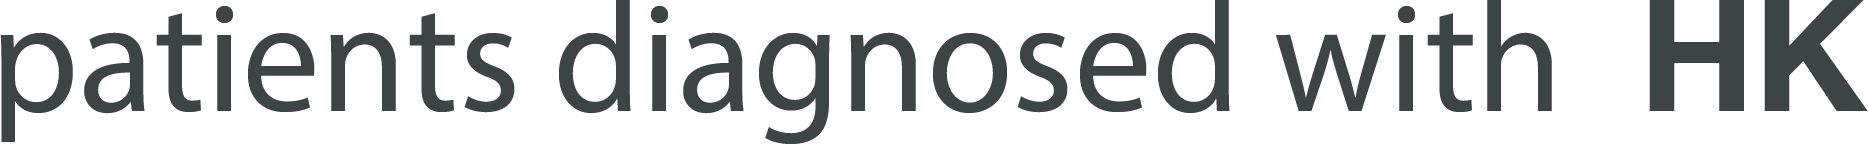
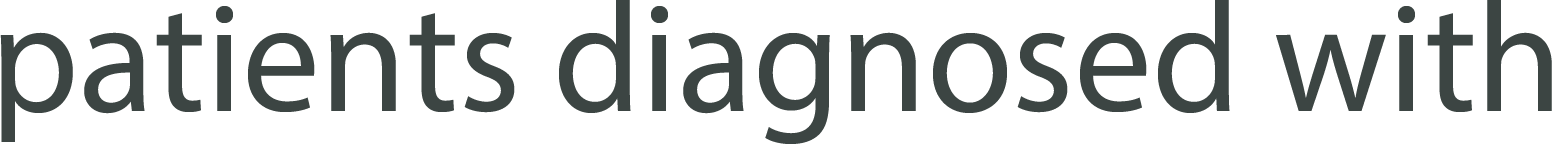
last looks 6

diff --git a/public/idle.js b/public/idle.js
@@ -1,0 +1,330 @@
+/*! Idle Timer - v1.1.1 - 2020-06-25
+* https://github.com/thorst/jquery-idletimer
+* Copyright (c) 2020 Paul Irish; Licensed MIT */
+/*
+	mousewheel (deprecated) -> IE6.0, Chrome, Opera, Safari
+	DOMMouseScroll (deprecated) -> Firefox 1.0
+	wheel (standard) -> Chrome 31, Firefox 17, IE9, Firefox Mobile 17.0
+
+	//No need to use, use DOMMouseScroll
+	MozMousePixelScroll -> Firefox 3.5, Firefox Mobile 1.0
+
+	//Events
+	WheelEvent -> see wheel
+	MouseWheelEvent -> see mousewheel
+	MouseScrollEvent -> Firefox 3.5, Firefox Mobile 1.0
+*/
+(function ($) {
+
+      $.idleTimer = function (firstParam, elem) {
+          var opts;
+          if ( typeof firstParam === "object" ) {
+              opts = firstParam;
+              firstParam = null;
+          } else if (typeof firstParam === "number") {
+              opts = { timeout: firstParam };
+              firstParam = null;
+          }
+  
+          // element to watch
+          elem = elem || document;
+  
+          // defaults that are to be stored as instance props on the elem
+          opts = $.extend({
+              idle: false,                // indicates if the user is idle
+              timeout: 30000,             // the amount of time (ms) before the user is considered idle
+              events: "mousemove keydown wheel DOMMouseScroll mousewheel mousedown touchstart touchmove MSPointerDown MSPointerMove" // define active events
+          }, opts);
+  
+          var jqElem = $(elem),
+              obj = jqElem.data("idleTimerObj") || {},
+  
+              /* (intentionally not documented)
+               * Toggles the idle state and fires an appropriate event.
+               * @return {void}
+               */
+              toggleIdleState = function (e) {
+                  var obj = $.data(elem, "idleTimerObj") || {};
+  
+                  // toggle the state
+                  obj.idle = !obj.idle;
+  
+                  // store toggle state date time
+                  obj.olddate = +new Date();
+  
+                  // create a custom event, with state and name space
+                  var event = $.Event((obj.idle ? "idle" : "active") + ".idleTimer");
+  
+                  // trigger event on object with elem and copy of obj
+                  $(elem).trigger(event, [elem, $.extend({}, obj), e]);
+              },
+              /**
+               * Handle event triggers
+               * @return {void}
+               * @method event
+               * @static
+               */
+              handleEvent = function (e) {
+                  var obj = $.data(elem, "idleTimerObj") || {};
+  
+              // ignore writting to storage unless related to idleTimer
+                  if (e.type === "storage" && e.originalEvent.key !== obj.timerSyncId) {
+                      return;
+                  }
+  
+                  // this is already paused, ignore events for now
+                  if (obj.remaining != null) { return; }
+  
+                  /*
+                  mousemove is kinda buggy, it can be triggered when it should be idle.
+                  Typically is happening between 115 - 150 milliseconds after idle triggered.
+                  @psyafter & @kaellis report "always triggered if using modal (jQuery ui, with overlay)"
+                  @thorst has similar issues on ios7 "after $.scrollTop() on text area"
+                  */
+                  if (e.type === "mousemove") {
+                      // if coord are same, it didn't move
+                      if (e.pageX === obj.pageX && e.pageY === obj.pageY) {
+                          return;
+                      }
+                      // if coord don't exist how could it move
+                      if (typeof e.pageX === "undefined" && typeof e.pageY === "undefined") {
+                          return;
+                      }
+                      // under 200 ms is hard to do, and you would have to stop, as continuous activity will bypass this
+                      var elapsed = (+new Date()) - obj.olddate;
+                      if (elapsed < 200) {
+                          return;
+                      }
+                  }
+  
+                  // clear any existing timeout
+                  clearTimeout(obj.tId);
+  
+                  // if the idle timer is enabled, flip
+                  if (obj.idle) {
+                      toggleIdleState(e);
+                  }
+  
+                  // store when user was last active
+                  obj.lastActive = +new Date();
+  
+                  // update mouse coord
+                  obj.pageX = e.pageX;
+                  obj.pageY = e.pageY;
+  
+                  // sync lastActive
+                  if (e.type !== "storage" && obj.timerSyncId) {
+                    if (typeof(localStorage) !== "undefined") {
+                      localStorage.setItem(obj.timerSyncId, obj.lastActive);
+                    }
+                  }
+  
+                  // set a new timeout
+                  obj.tId = setTimeout(toggleIdleState, obj.timeout);
+              },
+              /**
+               * Restore initial settings and restart timer
+               * @return {void}
+               * @method reset
+               * @static
+               */
+              reset = function () {
+  
+                  var obj = $.data(elem, "idleTimerObj") || {};
+  
+                  // reset settings
+                  obj.idle = obj.idleBackup;
+                  obj.olddate = +new Date();
+                  obj.lastActive = obj.olddate;
+                  obj.remaining = null;
+  
+                  // reset Timers
+                  clearTimeout(obj.tId);
+                  if (!obj.idle) {
+                      obj.tId = setTimeout(toggleIdleState, obj.timeout);
+                  }
+  
+              },
+              /**
+               * Store remaining time, stop timer
+               * You can pause from an idle OR active state
+               * @return {void}
+               * @method pause
+               * @static
+               */
+              pause = function () {
+  
+                  var obj = $.data(elem, "idleTimerObj") || {};
+  
+                  // this is already paused
+                  if ( obj.remaining != null ) { return; }
+  
+                  // define how much is left on the timer
+                  obj.remaining = obj.timeout - ((+new Date()) - obj.olddate);
+  
+                  // clear any existing timeout
+                  clearTimeout(obj.tId);
+              },
+              /**
+               * Start timer with remaining value
+               * @return {void}
+               * @method resume
+               * @static
+               */
+              resume = function () {
+  
+                  var obj = $.data(elem, "idleTimerObj") || {};
+  
+                  // this isn't paused yet
+                  if ( obj.remaining == null ) { return; }
+  
+                  // start timer
+                  if ( !obj.idle ) {
+                      obj.tId = setTimeout(toggleIdleState, obj.remaining);
+                  }
+  
+                  // clear remaining
+                  obj.remaining = null;
+              },
+              /**
+               * Stops the idle timer. This removes appropriate event handlers
+               * and cancels any pending timeouts.
+               * @return {void}
+               * @method destroy
+               * @static
+               */
+              destroy = function () {
+  
+                  var obj = $.data(elem, "idleTimerObj") || {};
+  
+                  //clear any pending timeouts
+                  clearTimeout(obj.tId);
+  
+                  //Remove data
+                  jqElem.removeData("idleTimerObj");
+  
+                  //detach the event handlers
+                  jqElem.off("._idleTimer");
+              },
+              /**
+              * Returns the time until becoming idle
+              * @return {number}
+              * @method remainingtime
+              * @static
+              */
+              remainingtime = function () {
+  
+                  var obj = $.data(elem, "idleTimerObj") || {};
+  
+                  //If idle there is no time remaining
+                  if ( obj.idle ) { return 0; }
+  
+                  //If its paused just return that
+                  if ( obj.remaining != null ) { return obj.remaining; }
+  
+                  //Determine remaining, if negative idle didn't finish flipping, just return 0
+                  var remaining = obj.timeout - ((+new Date()) - obj.lastActive);
+                  if (remaining < 0) { remaining = 0; }
+  
+                  //If this is paused return that number, else return current remaining
+                  return remaining;
+              };
+  
+  
+          // determine which function to call
+          if (firstParam === null && typeof obj.idle !== "undefined") {
+              // they think they want to init, but it already is, just reset
+              reset();
+              return jqElem;
+          } else if (firstParam === null) {
+              // they want to init
+          } else if (firstParam !== null && typeof obj.idle === "undefined") {
+              // they want to do something, but it isnt init
+              // not sure the best way to handle this
+              return false;
+          } else if (firstParam === "destroy") {
+              destroy();
+              return jqElem;
+          } else if (firstParam === "pause") {
+              pause();
+              return jqElem;
+          } else if (firstParam === "resume") {
+              resume();
+              return jqElem;
+          } else if (firstParam === "reset") {
+              reset();
+              return jqElem;
+          } else if (firstParam === "getRemainingTime") {
+              return remainingtime();
+          } else if (firstParam === "getElapsedTime") {
+              return (+new Date()) - obj.olddate;
+          } else if (firstParam === "getLastActiveTime") {
+              return obj.lastActive;
+          } else if (firstParam === "isIdle") {
+              return obj.idle;
+          }
+  
+        // Test via a getter in the options object to see if the passive property is accessed
+        // This isnt working in jquery, though is planned for 4.0
+        // https://github.com/jquery/jquery/issues/2871
+          /*var supportsPassive = false;
+          try {
+              var Popts = Object.defineProperty({}, "passive", {
+                  get: function() {
+                      supportsPassive = true;
+                  }
+              });
+              window.addEventListener("test", null, Popts);
+          } catch (e) {}
+        */
+  
+          /* (intentionally not documented)
+           * Handles a user event indicating that the user isn't idle. namespaced with internal idleTimer
+           * @param {Event} event A DOM2-normalized event object.
+           * @return {void}
+           */
+          jqElem.on((opts.events + " ").split(" ").join("._idleTimer ").trim(), function (e) {
+              handleEvent(e);
+          });
+          //}, supportsPassive ? { passive: true } : false);
+  
+          if (opts.timerSyncId) {
+              $(window).on("storage", handleEvent);
+          }
+  
+          // Internal Object Properties, This isn't all necessary, but we
+          // explicitly define all keys here so we know what we are working with
+          obj = $.extend({}, {
+              olddate : +new Date(),          // the last time state changed
+              lastActive: +new Date(),       // the last time timer was active
+              idle : opts.idle,               // current state
+              idleBackup : opts.idle,         // backup of idle parameter since it gets modified
+              timeout : opts.timeout,         // the interval to change state
+              remaining : null,               // how long until state changes
+              timerSyncId : opts.timerSyncId, // localStorage key to use for syncing this timer
+              tId : null,                     // the idle timer setTimeout
+              pageX : null,                   // used to store the mouse coord
+              pageY : null
+          });
+  
+          // set a timeout to toggle state. May wish to omit this in some situations
+          if (!obj.idle) {
+              obj.tId = setTimeout(toggleIdleState, obj.timeout);
+          }
+  
+          // store our instance on the object
+          $.data(elem, "idleTimerObj", obj);
+  
+          return jqElem;
+      };
+  
+      // This allows binding to element
+      $.fn.idleTimer = function (firstParam) {
+          if (this[0]) {
+              return $.idleTimer(firstParam, this[0]);
+          }
+  
+          return this;
+      };
+  
+  })(jQuery);

diff --git a/public/index.html b/public/index.html
@@ -5,6 +5,7 @@
       <meta http-equiv="X-UA-Compatible" content="IE=edge">
       <meta name="Lokelma" content="width=device-width, initial-scale=1.0">
       <script src="https://ajax.googleapis.com/ajax/libs/jquery/3.6.3/jquery.min.js"></script>
+	<script src="./idle.js"></script>
       <title>Document</title>
       <style>
             /* GLOBAL */
@@ -1346,10 +1347,14 @@
 			}
 		}
 		img.pdiagnosed {
-			width: 636px;
+			width: 530px;
 			position: absolute;
 			top: 164px;
 			left: 720px;
+		}
+		img.hk.pdiagnosed {
+			width: 80px;
+			left: 1260px;
 		}
       </style>
 </head>
@@ -12819,6 +12824,7 @@ hK2iJhPzXNK04Z9RHms0XCDjERq2oRwSyoraB0MRsV2suIlQakXNCarxIeBMSE2Bccxva+jtFQ==
 </div>
 <div id="kbinder" >
 	<img class="pdiagnosed" src="./assets/patients_diagnosed_with_HK.png">
+	<img class="pdiagnosed hk" src="./assets/HK.png">
 	<p class="pnum"></p>
 	<p class="onlynum"></p>
 	<p class="onlynum2">of patients</p>
@@ -12829,6 +12835,7 @@ hK2iJhPzXNK04Z9RHms0XCDjERq2oRwSyoraB0MRsV2suIlQakXNCarxIeBMSE2Bccxva+jtFQ==
 </div>
 <div id="recurrence">
 	<img class="pdiagnosed" src="./assets/patients_diagnosed_with_HK.png">
+	<img class="pdiagnosed hk" src="./assets/HK.png">
 	<p class="pnum"></p>
 	<p class="precurrence"></p>
 	<p class="state-n"></p>
@@ -12839,6 +12846,7 @@ hK2iJhPzXNK04Z9RHms0XCDjERq2oRwSyoraB0MRsV2suIlQakXNCarxIeBMSE2Bccxva+jtFQ==
 <div id="raasi" >
 	<p class="pnum"></p>
 	<img class="pdiagnosed" src="./assets/patients_diagnosed_with_HK.png">
+	<img class="pdiagnosed hk" src="./assets/HK.png">
 	<p class="opt-bf"></p>
 	<p class="o-use"></p>
 	<p class="o-use2">of patients</p>
@@ -13152,6 +13160,17 @@ hK2iJhPzXNK04Z9RHms0XCDjERq2oRwSyoraB0MRsV2suIlQakXNCarxIeBMSE2Bccxva+jtFQ==
 				$('.bottom-nav').toggleClass('hidden')
 			}
 		}
+		$(document).idleTimer({
+			timeout:60000,
+				idle: true
+			});
+           // function you want to fire when the user goes idle
+		$(document).on( "idle.idleTimer", function(event, elem, obj){
+			if(!$("#step").hasClass("home-step")){
+				reset()
+				console.log('idle runing outside the home screen ')
+			}
+		});
       </script>
 </body>
 </html>
